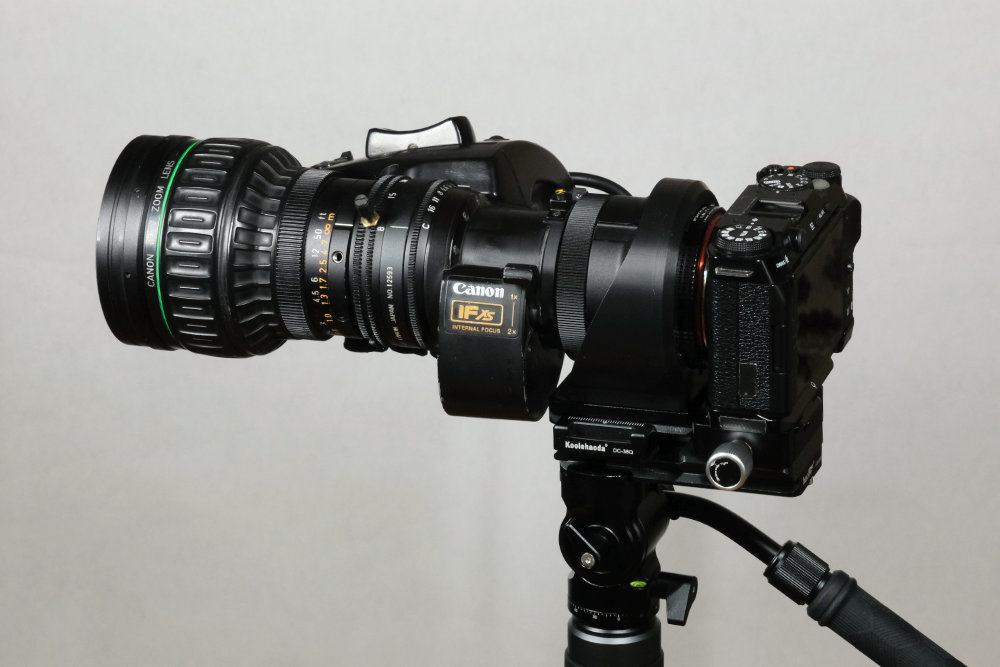
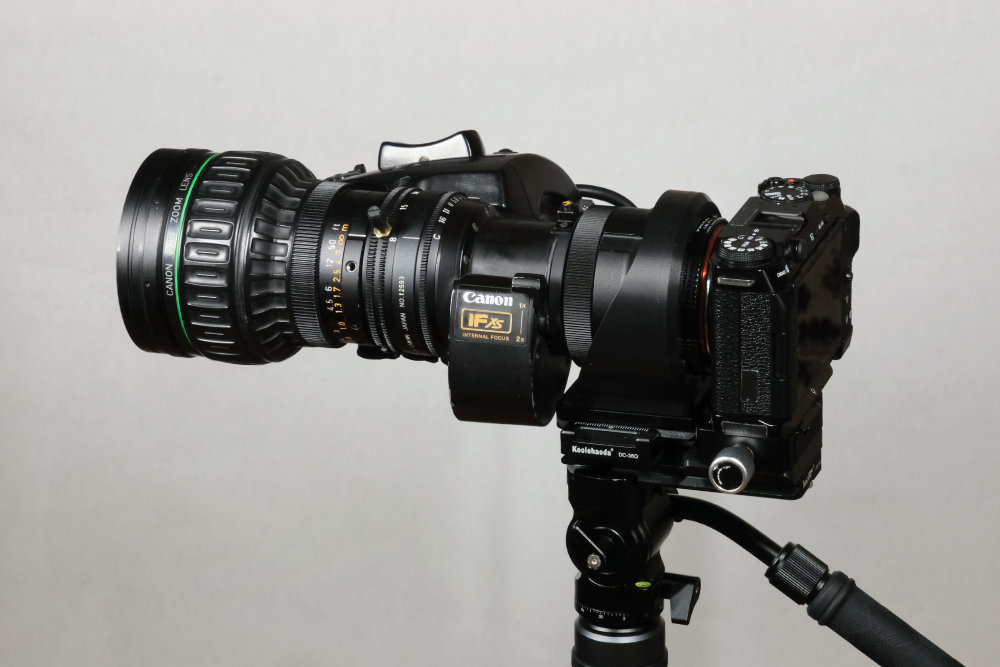
Quartz sync: Feb 3, 2026, 1:13 PM

diff --git a/content/B4 Adapter Project/B4 Adapter Documentation.md b/content/B4 Adapter Project/B4 Adapter Documentation.md
@@ -145,9 +145,9 @@ Note that there is no need for an additional "lens support" as long as the adapt
 I use both Option 1 & 2 depending on the shoot. 
 My current personal setup looks something like this :
 
-| ![[personal_setup_solid_connection.jpg\|378]] | ![[solid_connection_only2.jpg\|294]] |
-| :-------------------------------------------: | :----------------------------------: |
-|         *Option 2: solid connection*          |   *Plate, clamp and riser systeme*   |
+| ![[personal_setup_solid_connection.jpg\|378]] | ![[solid_connection_only.jpg\|294]] |
+| :-------------------------------------------: | :---------------------------------: |
+|         *Option 2: solid connection*          |  *Plate, clamp and riser systeme*   |
 
 ## Powering the rocker
 

diff --git a/content/B4 Adapter Project/Related Pages/Reddit post.md b/content/B4 Adapter Project/Related Pages/Reddit post.md
@@ -48,8 +48,11 @@ I found mind on the second hand market; you can also search it by its reference 
 This isn’t meant to replace commercial solutions, but it can makes working with B4 glass on mirrorless bodies far more accessible.
 
 
+
+![[personal_setup_solid_connection.jpg|500]]
+
 ![[Final_adapter_front.jpg|300]]
-![[Adapter_on_B4_lens.jpg|300]]
+
 ![[Adapter_on_B4_lens_zoom.jpg|300]]
 ![[CAD_Assembly_with_balloon.png|300]]
 ![[CAD_Assembly_section_view.png|300]]
